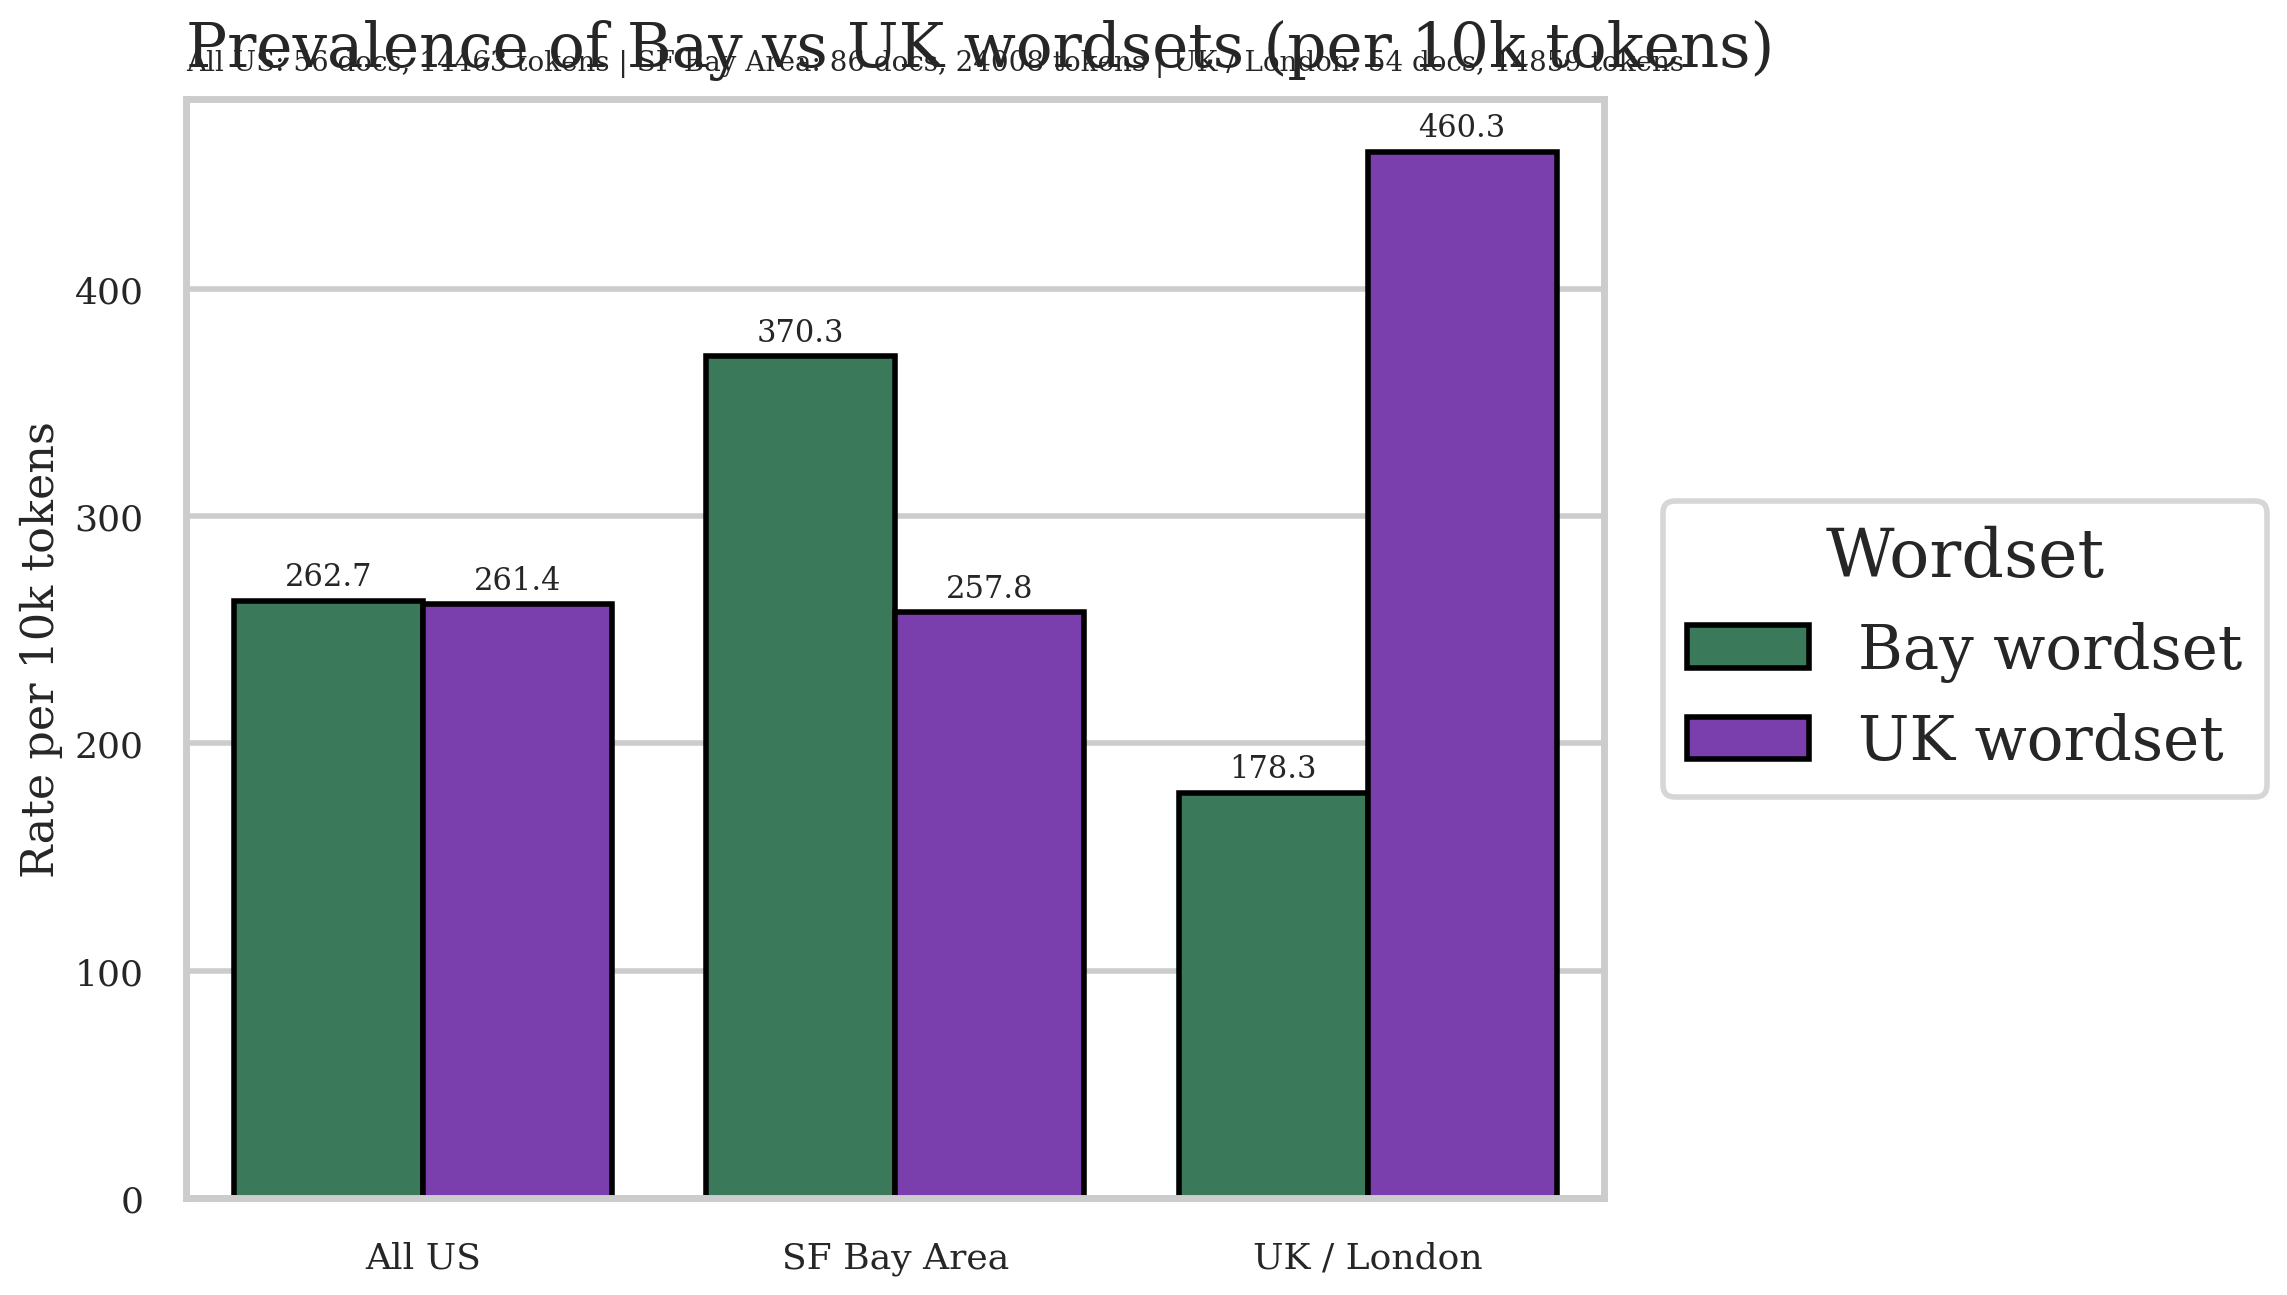
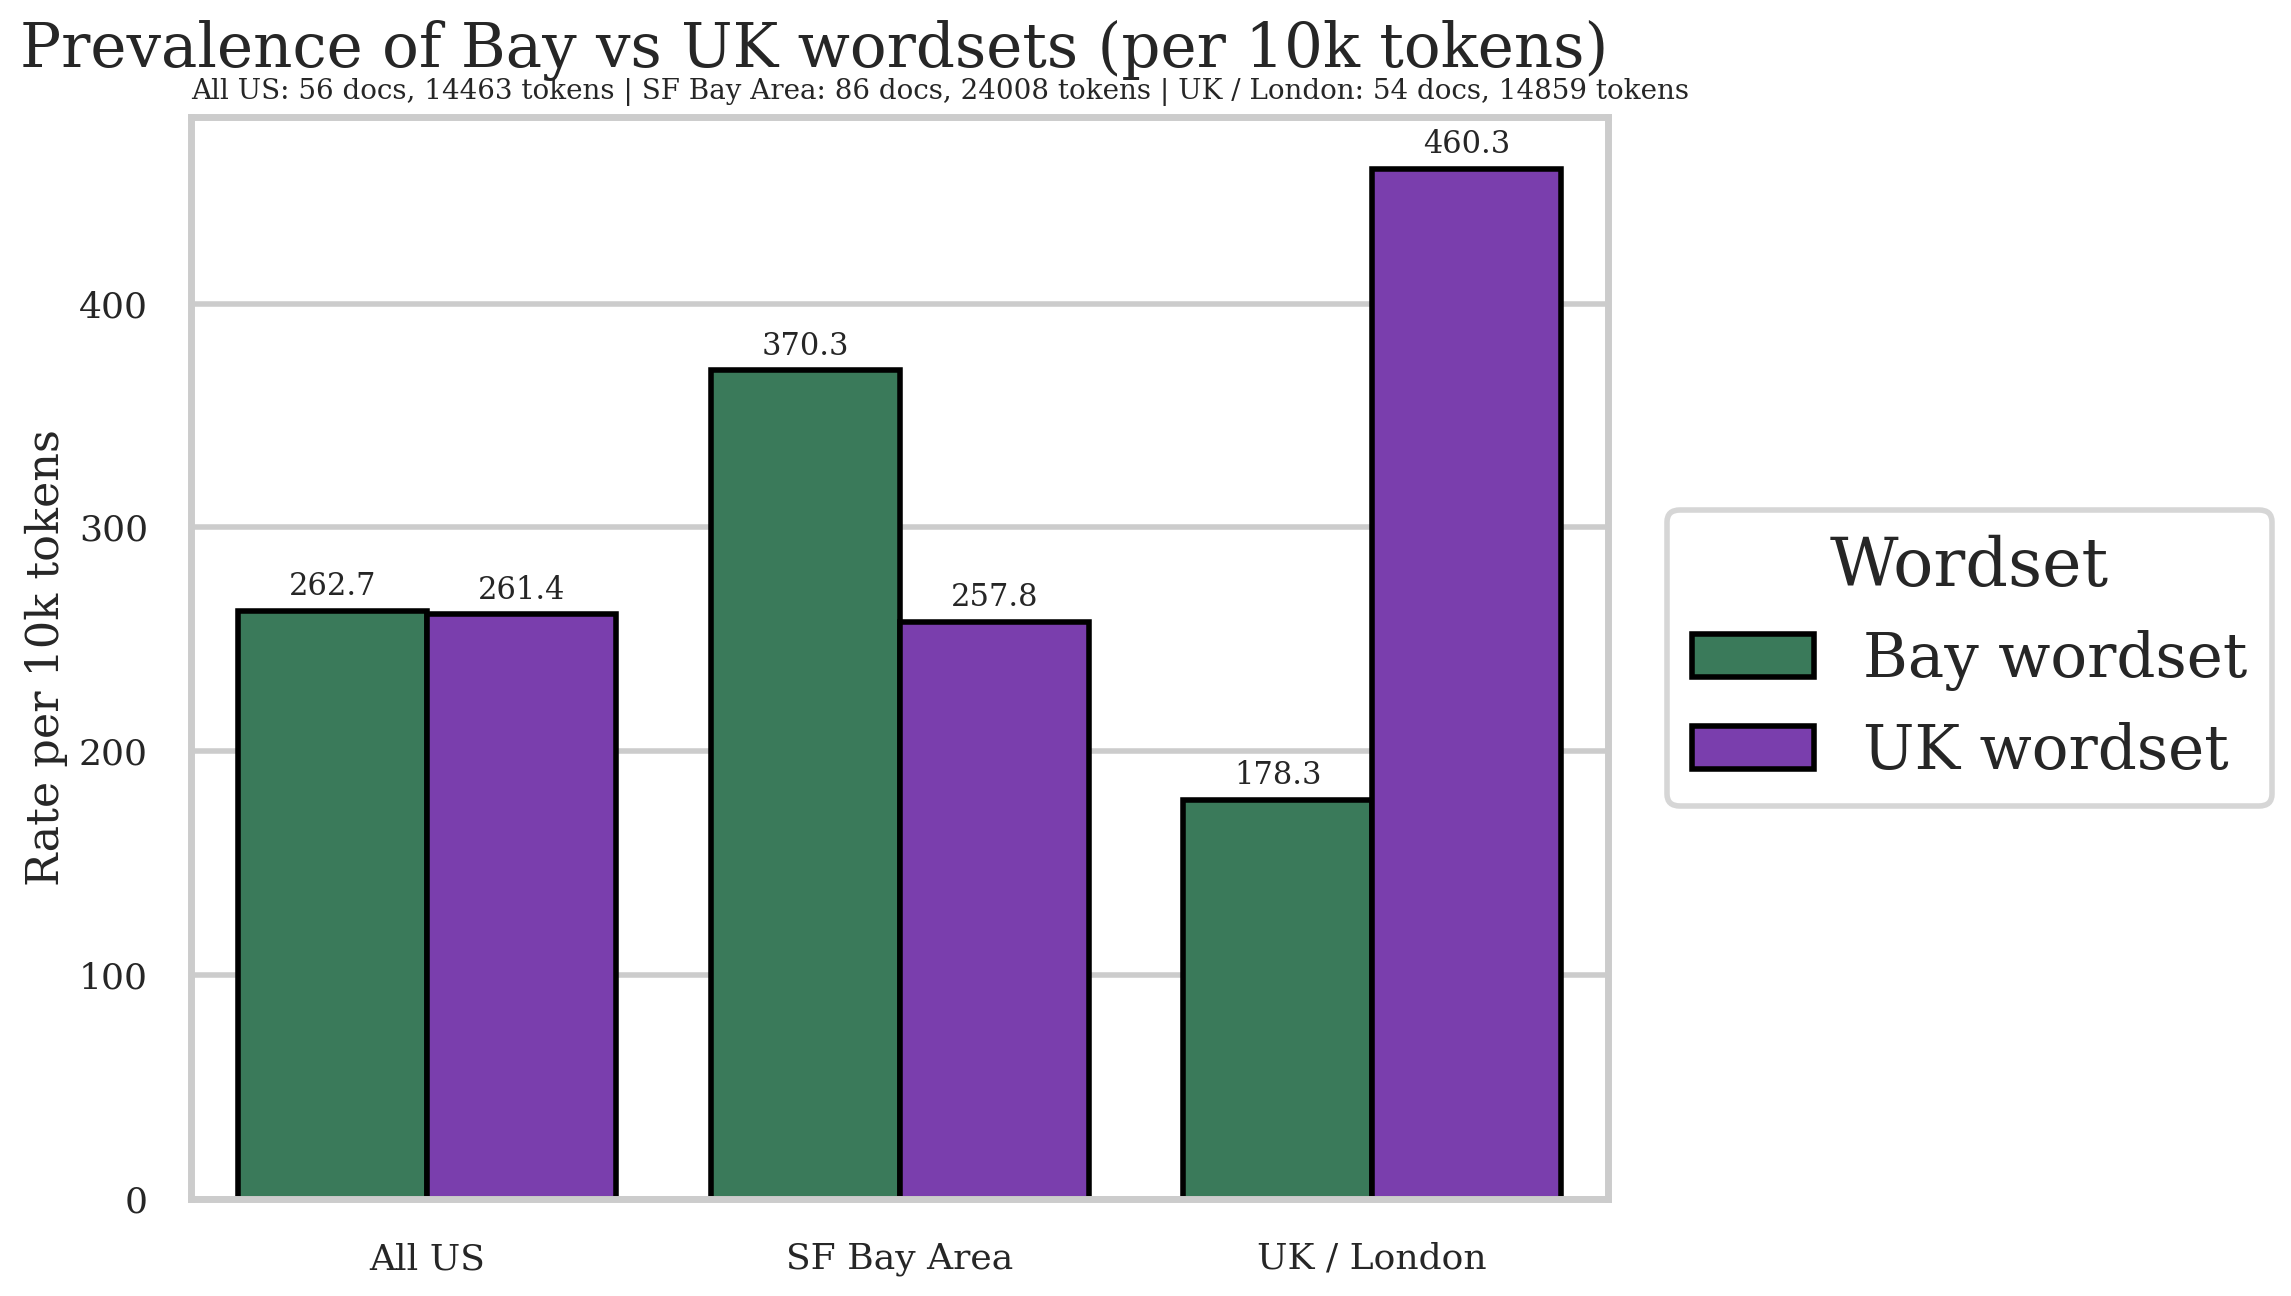
chore: finish building all graphs with seaboarn

diff --git a/scripts/seaborn/09_prevalence_bay_uk_wordsets_vs_all_us.py b/scripts/seaborn/09_prevalence_bay_uk_wordsets_vs_all_us.py
@@ -47,7 +47,7 @@ def _prep(df: pd.DataFrame) -> pd.DataFrame:
     df["group"] = df["group"].astype(str)
 
     # Keep only expected groups, and order them
-    df = df[df["group"].isin(GROUP_ORDER)].copy()
+    df = df[df["group"].isin(GROUP_ORDER)]
     df["group"] = pd.Categorical(df["group"], categories=GROUP_ORDER, ordered=True)
     df = df.sort_values("group")
 
@@ -71,13 +71,10 @@ def render(in_csv: Path, out_dir: Path, dpi: int) -> None:
         "uk_wordset_rate_per_10k": "UK wordset",
     })
 
-    # Avoid categorical fillna issues: build labels from plain strings
+    # Avoid categorical fillna weirdness: use plain strings for labels
     plot_df["group_str"] = plot_df["group"].astype(str)
     plot_df["group_label"] = plot_df["group_str"].map(GROUP_LABELS)
-    plot_df["group_label"] = plot_df["group_label"].fillna(plot_df["group_str"])
-
-    # Ensure x order matches GROUP_ORDER via labels
-    group_label_order = [GROUP_LABELS[g] for g in GROUP_ORDER]
+    plot_df["group_label"] = plot_df["group_label"].where(plot_df["group_label"].notna(), plot_df["group_str"])
 
     # Theme + serif + larger text (consistent with your other seaborn scripts)
     sns.set_theme(style="whitegrid", context="poster")
@@ -89,8 +86,6 @@ def render(in_csv: Path, out_dir: Path, dpi: int) -> None:
 
     palette = {"Bay wordset": BAY_COLOR, "UK wordset": UK_COLOR}
 
-    title = "Prevalence of Bay vs UK wordsets (per 10k tokens)"
-
     fig, ax = plt.subplots(figsize=(12, 7))
 
     sns.barplot(
@@ -98,18 +93,19 @@ def render(in_csv: Path, out_dir: Path, dpi: int) -> None:
         x="group_label",
         y="rate_per_10k",
         hue="wordset",
-        order=group_label_order,
         palette=palette,
         ax=ax,
         edgecolor="black",
     )
 
-    # Title top-left
-    ax.set_title(title, loc="left", pad=12)
+    # Title top-right
+    title = "Prevalence of Bay vs UK wordsets (per 10k tokens)"
+    ax.set_title(title, loc="right", pad=18)
+
     ax.set_xlabel("")
     ax.set_ylabel("Rate per 10k tokens")
 
-    # Legend outside so it never covers bars
+    # Legend outside so it can't cover bars
     ax.legend(
         title="Wordset",
         loc="center left",
@@ -121,7 +117,7 @@ def render(in_csv: Path, out_dir: Path, dpi: int) -> None:
     for container in ax.containers:
         ax.bar_label(container, fmt="%.1f", padding=3, fontsize=11)
 
-    # Context line under title: docs + tokens
+    # Context line UNDER the title area (won't overlap)
     ctx = " | ".join(
         f"{GROUP_LABELS.get(r.group, r.group)}: {int(r.docs)} docs, {int(r.total_tokens)} tokens"
         for r in df.itertuples(index=False)
@@ -129,7 +125,7 @@ def render(in_csv: Path, out_dir: Path, dpi: int) -> None:
     )
     ax.text(
         0.0,
-        1.02,
+        1.01,  # lower this to 0.99 if your title/context still collide
         ctx,
         transform=ax.transAxes,
         ha="left",
@@ -138,11 +134,11 @@ def render(in_csv: Path, out_dir: Path, dpi: int) -> None:
         fontfamily="DejaVu Serif",
     )
 
+    out_dir = Path(out_dir)
     out_dir.mkdir(parents=True, exist_ok=True)
     out_png = out_dir / "word_graph_09_prevalence_bay_uk_wordsets_vs_all_us_seaborn.png"
     out_svg = out_dir / "word_graph_09_prevalence_bay_uk_wordsets_vs_all_us_seaborn.svg"
 
-    # tight_layout + bbox_inches="tight" so the outside legend gets included
     fig.tight_layout()
     fig.savefig(out_png, dpi=dpi, bbox_inches="tight")
     fig.savefig(out_svg, bbox_inches="tight")
